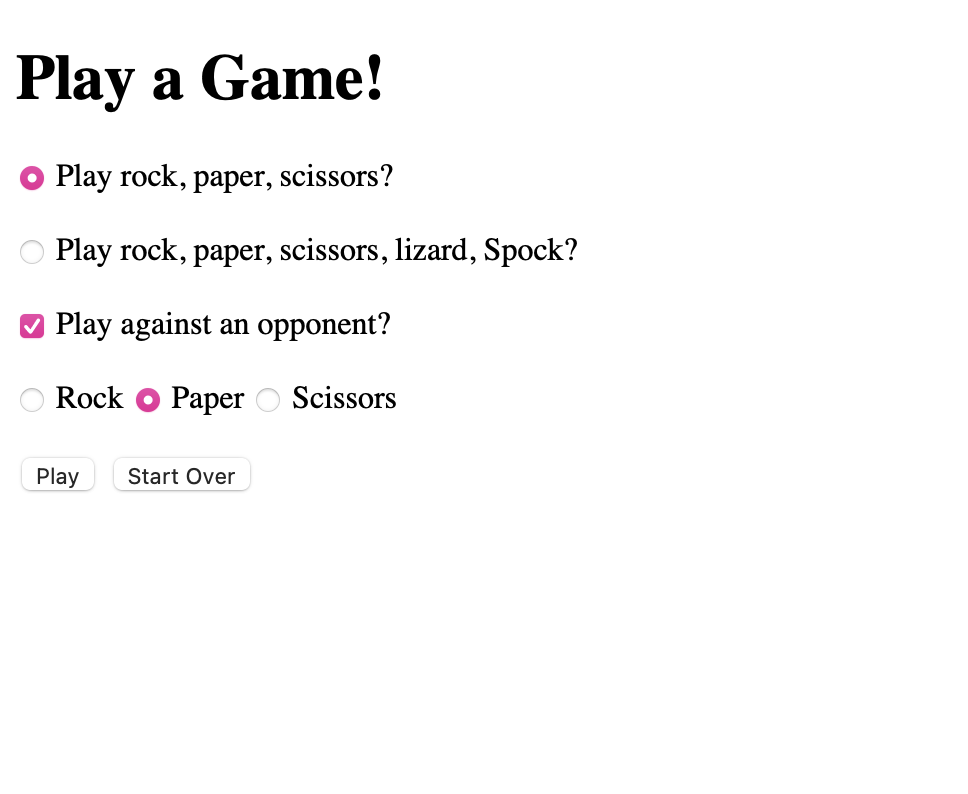
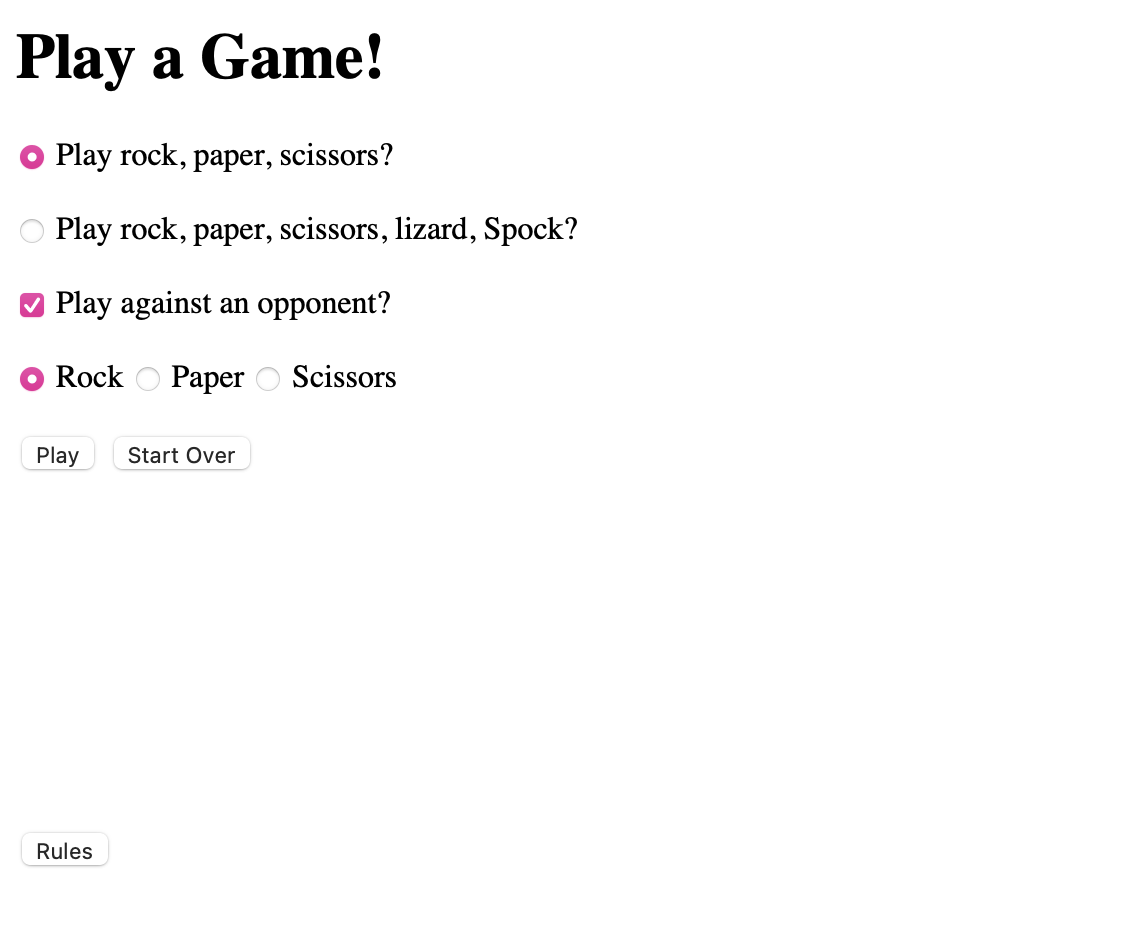
add help message

diff --git a/public/styles.css b/public/styles.css
@@ -7,3 +7,45 @@ p {
 .hidden {
     display: none;
 }
+
+/* Popup container */
+.popup {
+    position: relative;
+    display: inline-block;
+    cursor: pointer;
+  }
+  
+  /* The actual popup (appears on top) */
+  .popup .popuptext {
+    visibility: hidden;
+    width: 160px;
+    background-color: #555;
+    color: #fff;
+    text-align: center;
+    border-radius: 6px;
+    padding: 8px 0;
+    position: absolute;
+    z-index: 1;
+    bottom: 125%;
+    left: 50%;
+    margin-left: -80px;
+  }
+  
+  /* Popup arrow */
+  .popup .popuptext::after {
+    content: "";
+    position: absolute;
+    top: 100%;
+    left: 50%;
+    margin-left: -5px;
+    border-width: 5px;
+    border-style: solid;
+    border-color: #555 transparent transparent transparent;
+  }
+  
+  /* Toggle this class when clicking on the popup container (hide and show the popup) */
+  .popup .show {
+    visibility: visible;
+    -webkit-animation: fadeIn 1s;
+    animation: fadeIn 1s
+  }

diff --git a/public/index.html b/public/index.html
@@ -41,5 +41,24 @@
 	<p id="game_opponent" style="visibility: hidden"></p>
 	<p id="game_result" style="visibility: hidden"></p>
 	<button id="startover2" onclick="startOver()" style = "visibility: hidden">Start Over</button>
+	<br>
+	<button id="rulesPopup" onclick="showRules()">Rules</button>
+	<p id="rps_rules" style="visibility: hidden">Rules for Rock Paper Scissors:
+		- Scissors CUTS Paper
+		- Paper COVERS Rock
+		- Rock CRUSHES Scissors</p>
+	<p id="rpsls_rules" style="visibility: hidden">Rules for the Lizard-Spock Expansion of Rock Paper Scissors:
+
+		- Scissors CUTS Paper
+		- Paper COVERS Rock
+		- Rock SMOOSHES Lizard
+		- Lizard POISONS Spock
+		- Spock SMASHES Scissors
+		- Scissors DECAPITATES Lizard
+		- Lizard EATS Paper
+		- Paper DISPROVES Spock
+		- Spock VAPORIZES Rock
+		- Rock CRUSHES Scissors</p>
+	<button id="close" onclick="closeRules()" style="visibility: hidden">Close Rules</button>
     </body>
 </html>

diff --git a/public/scripts.js b/public/scripts.js
@@ -78,5 +78,16 @@ async function playGame() {
     you.innerHTML = "You: " + result.player;
     opponent.innerHTML = "Opponent: " + result.opponent;
     gResult.innerHTML = "Result: " + result.result;
+}
 
+function showRules() {
+    document.getElementById("rps_rules").style.visibility = "visible";
+    document.getElementById("rpsls_rules").style.visibility = "visible";
+    document.getElementById("close").style.visibility = "visible";
+}
+
+function closeRules() {
+    document.getElementById("rps_rules").style.visibility = "hidden";
+    document.getElementById("rpsls_rules").style.visibility = "hidden";
+    document.getElementById("close").style.visibility = "hidden";
 }
